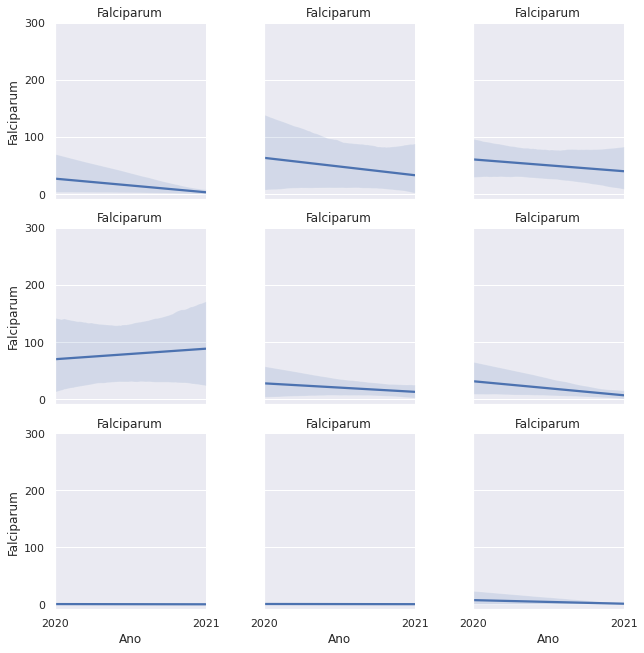
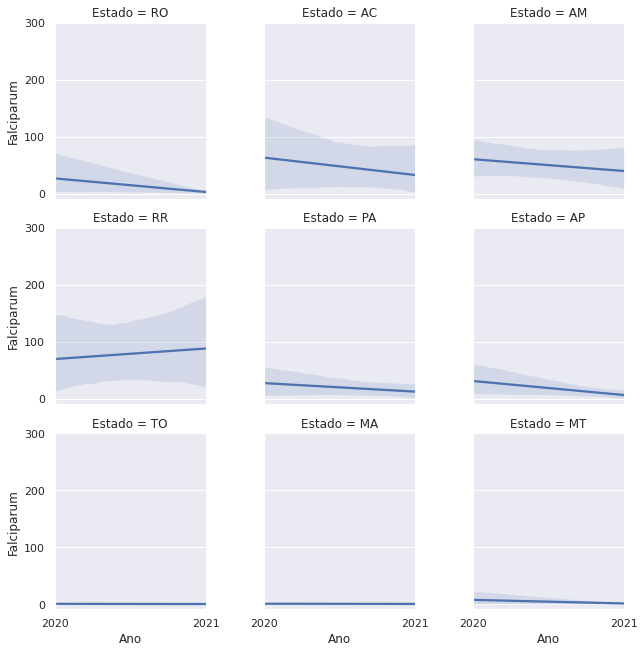
(/sprint_04_data_visualization) -> fix one regresison graph and regression plots finished

diff --git a/sprint_04_data_visualization/data_visualization_01_data_01_AM_mun_especie.py b/sprint_04_data_visualization/data_visualization_01_data_01_AM_mun_especie.py
@@ -223,6 +223,6 @@ sns.lmplot(data=df, x='Ano', y='Falciparum', col='Estado', aspect=1.7, col_wrap=
 
 sns.lmplot(data=df, x='Ano', y='Vivax', col='Estado', aspect=1.7, col_wrap=2, palette='Set1').savefig(os.path.join(path_output, 'output_62.png'))
 
-lmplot(data=df[df['Ano'] >= 2020], x='Ano', y='Falciparum', col='Estado', scatter=False, height=3, aspect=1, col_wrap=3, palette='Set1').set(xticks=[2020, 2021], yticks=[0, 100, 200, 300], title='Falciparum').savefig(os.path.join(path_output, 'output_63.png'))
+lmplot(data=df[df['Ano'] >= 2020], x='Ano', y='Falciparum', col='Estado', scatter=False, height=3, aspect=1, col_wrap=3, palette='Set1').set(xticks=[2020, 2021], yticks=[0, 100, 200, 300]).savefig(os.path.join(path_output, 'output_63.png'))
 
 lmplot(data=df[df['Ano'] >= 2020], x='Ano', y='Vivax', col='Estado', scatter=False, height=2, aspect=1, col_wrap=3, palette='Set1').set(xticks=[2020, 2021], yticks=[0, 100, 200, 300]).savefig(os.path.join(path_output, 'output_64.png'))
